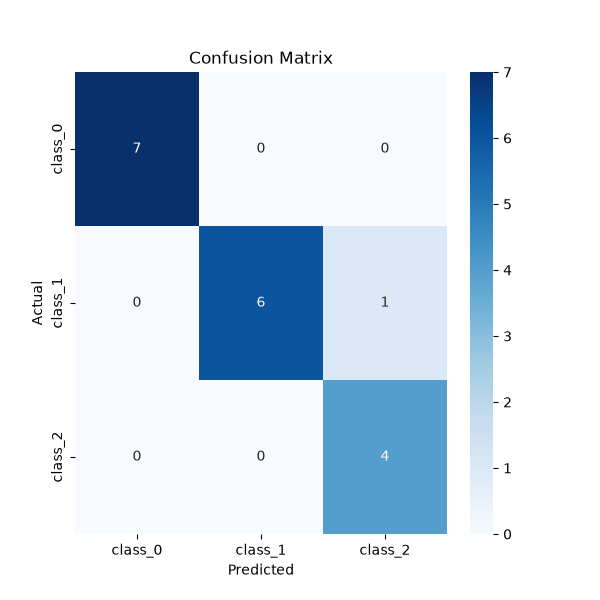
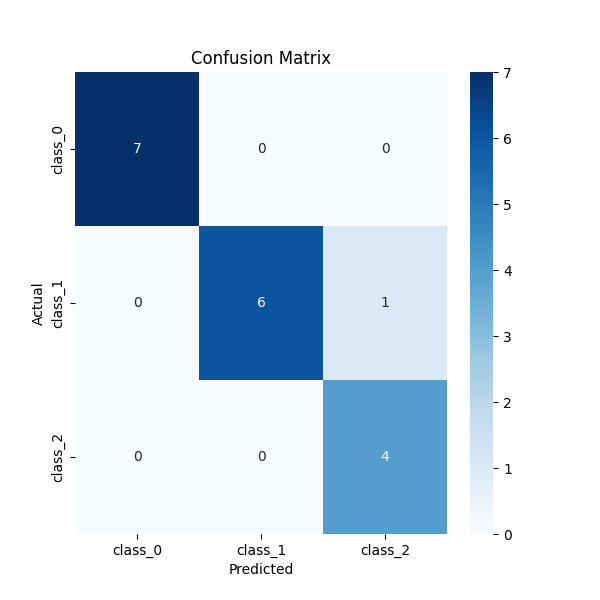
mlflow with dagshub and autolog

diff --git a/src/file2.py b/src/file2.py
@@ -1,0 +1,71 @@
+# This notebook for run MLflow with dagshub remote access.
+
+import mlflow 
+import mlflow.sklearn
+from sklearn.datasets import load_wine
+from sklearn.ensemble import RandomForestClassifier
+from sklearn.model_selection import train_test_split
+from sklearn.metrics import accuracy_score , confusion_matrix
+import matplotlib.pyplot as plt
+import seaborn as sns
+
+# This is only the extra code for remote on dagshub
+# these things we have to copy from dagshub site when we connect this repo through github and use as usual. 
+# I have to copy these and paste in correct place.
+
+import dagshub
+dagshub.init(repo_owner='Abhijit_Palai', repo_name='MLOPS-Experiments-with-MLFlow', mlflow=True)
+
+mlflow.set_tracking_uri("https://dagshub.com/Abhijit_Palai/MLOPS-Experiments-with-MLFlow.mlflow")
+
+# -----------------------------------------------------------------------------------------------
+
+# load wine dataset
+wine = load_wine()
+X = wine.data
+y = wine.target
+
+# train test split
+x_train , x_test , y_train , y_test = train_test_split(X,y,test_size = 0.10 , random_state = 42)
+
+# Define the params for RF model
+
+max_depth = 10
+n_estimators = 5
+
+# mention your experiment below
+mlflow.set_experiment('YT-MLOPS-EXP1')
+
+with mlflow.start_run():
+    rf = RandomForestClassifier(max_depth=max_depth , n_estimators=n_estimators , random_state = 42)
+    rf.fit(x_train , y_train)
+    
+    y_pred = rf.predict(x_test)
+    accuracy = accuracy_score(y_test , y_pred)
+    
+    mlflow.log_metric('accuracy',accuracy)
+    mlflow.log_param('max_depth', max_depth)
+    mlflow.log_param('n_estimators',n_estimators)
+    
+    # Creating a confusion matrix log
+    cm = confusion_matrix(y_test , y_pred)
+    plt.figure(figsize=(6,6))
+    sns.heatmap(cm , annot=True , fmt = 'd',cmap = 'Blues',xticklabels=wine.target_names , yticklabels=wine.target_names)
+    plt.ylabel('Actual')
+    plt.xlabel('Predicted')
+    plt.title('Confusion Matrix')
+    
+    # save plot
+    plt.savefig('Confusion-Matrix.png') 
+    
+    # log artifacts using mlflow 
+    mlflow.log_artifact('Confusion-Matrix.png')  
+    mlflow.log_artifact(__file__)
+    
+    # Tags
+    mlflow.set_tags({'Author':'Abhijit' , 'project':'wine_classification'})
+    
+    #Log the model
+    mlflow.sklearn.log_model(rf , 'RandomForestClassifier')
+    
+    print(accuracy)

diff --git a/src/autolog_mlflow.py b/src/autolog_mlflow.py
@@ -1,0 +1,59 @@
+# This notebook for run MLflow without any remote access. Just basics of MLflow.
+
+import mlflow 
+import mlflow.sklearn
+from sklearn.datasets import load_wine
+from sklearn.ensemble import RandomForestClassifier
+from sklearn.model_selection import train_test_split
+from sklearn.metrics import accuracy_score , confusion_matrix
+import matplotlib.pyplot as plt
+import seaborn as sns
+mlflow.set_tracking_uri('http://127.0.0.1:5000')
+
+# load wine dataset
+wine = load_wine()
+X = wine.data
+y = wine.target
+
+# train test split
+x_train , x_test , y_train , y_test = train_test_split(X,y,test_size = 0.10 , random_state = 42)
+
+# Define the params for RF model
+
+max_depth = 10
+n_estimators = 5
+
+mlflow.autolog()  # only add this line of code and automatically MLflow log the all things.
+# mention your experiment below
+mlflow.set_experiment('YT-MLOPS-EXP1')
+
+with mlflow.start_run():
+    rf = RandomForestClassifier(max_depth=max_depth , n_estimators=n_estimators , random_state = 42)
+    rf.fit(x_train , y_train)
+    
+    y_pred = rf.predict(x_test)
+    accuracy = accuracy_score(y_test , y_pred)
+    
+  
+    
+    # Creating a confusion matrix log
+    cm = confusion_matrix(y_test , y_pred)
+    plt.figure(figsize=(6,6))
+    sns.heatmap(cm , annot=True , fmt = 'd',cmap = 'Blues',xticklabels=wine.target_names , yticklabels=wine.target_names)
+    plt.ylabel('Actual')
+    plt.xlabel('Predicted')
+    plt.title('Confusion Matrix')
+    
+    # save plot
+    plt.savefig('Confusion-Matrix.png') 
+    
+    # log artifacts using mlflow 
+   
+    mlflow.log_artifact(__file__)
+    
+    # Tags
+    mlflow.set_tags({'Author':'Abhijit' , 'project':'wine_classification'})
+    
+   
+    
+    print(accuracy)

diff --git a/src/file1.py b/src/file1.py
@@ -1,3 +1,5 @@
+# This notebook for run MLflow without any remote access. Just basics of MLflow.
+
 import mlflow 
 import mlflow.sklearn
 from sklearn.datasets import load_wine
